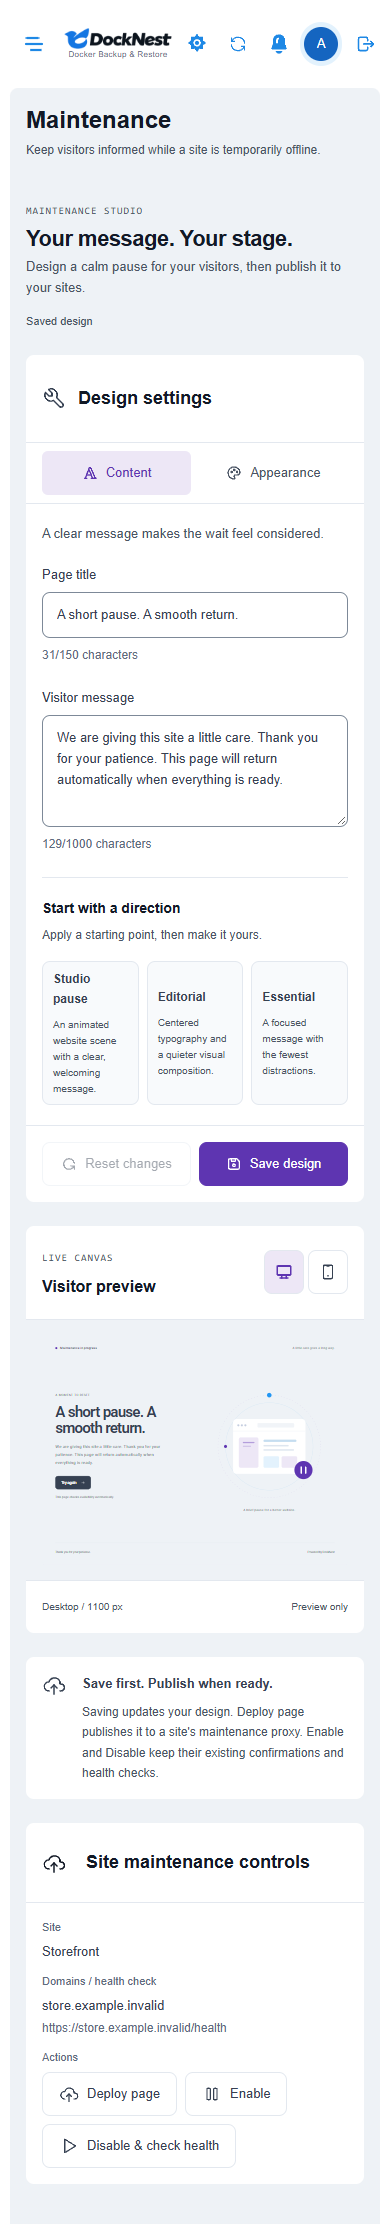
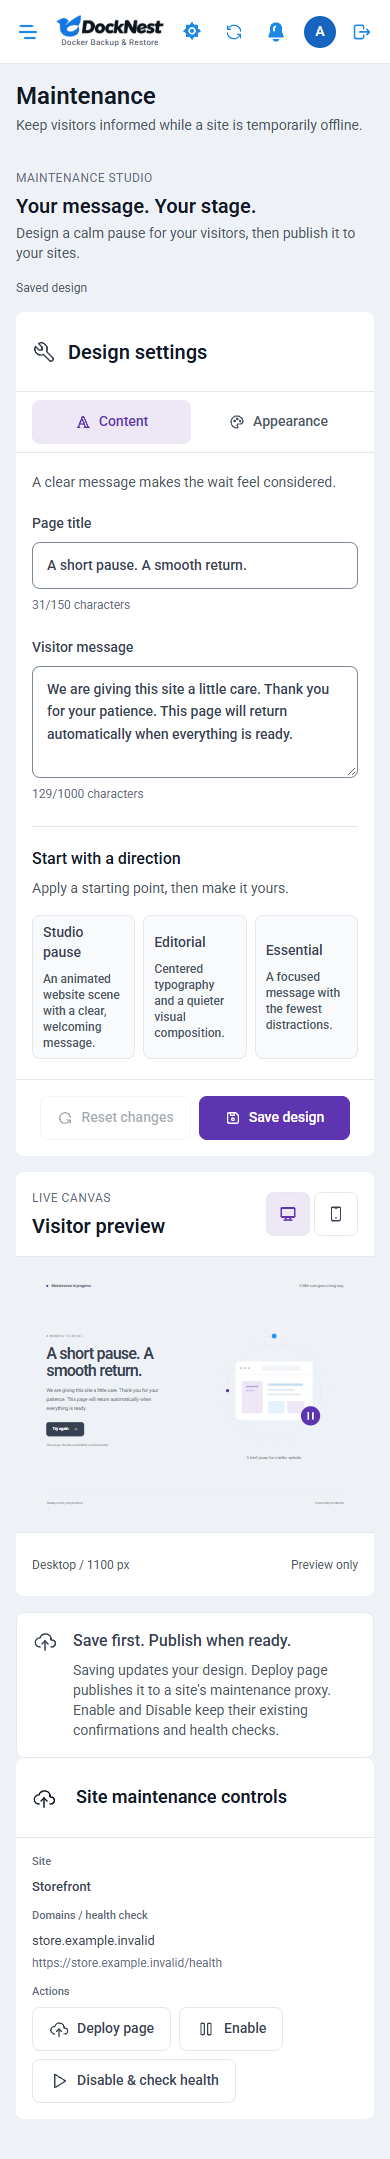
test(ui): wait for Update Center tabs; 40px dialog buttons on desktop

diff --git a/scripts/update-center-browser.js b/scripts/update-center-browser.js
@@ -73,6 +73,7 @@ try{
   await nav.click();
   await page.getByRole('heading',{name:'Update Center',level:1}).waitFor();
   assert.equal(await page.evaluate(()=>location.hash),'#/update-center');
+  await page.getByRole('tab').nth(2).waitFor();
   assert.deepEqual(await page.getByRole('tab').allTextContents(),['Overview','What\u2019s new','History'],'No Full changelog tab in 2.2.0');
   await page.getByRole('heading',{name:'DockNest 2.3.0'}).waitFor();
   await page.getByRole('heading',{name:'Before you update'}).waitFor();
@@ -171,8 +172,8 @@ try{
   const dialog=page.getByRole('dialog',{name:'Check GitHub daily for new versions?'});
   await dialog.waitFor();
   assert.ok(!(await dialog.textContent()).match(/IP address/i),'No IP wording');
-  assert.equal(await heightOf(dialog.getByRole('button',{name:'No, keep checks off'})),44);
-  assert.equal(await heightOf(dialog.getByRole('button',{name:'Yes, check daily'})),44);
+  assert.equal(await heightOf(dialog.getByRole('button',{name:'No, keep checks off'})),40);
+  assert.equal(await heightOf(dialog.getByRole('button',{name:'Yes, check daily'})),40);
   await page.keyboard.press('Escape');
   await dialog.waitFor({state:'hidden'});
   assert.equal(mock.calls.filter(c=>c.includes('/api/updates/consent')).length,0,'Escape records nothing');
